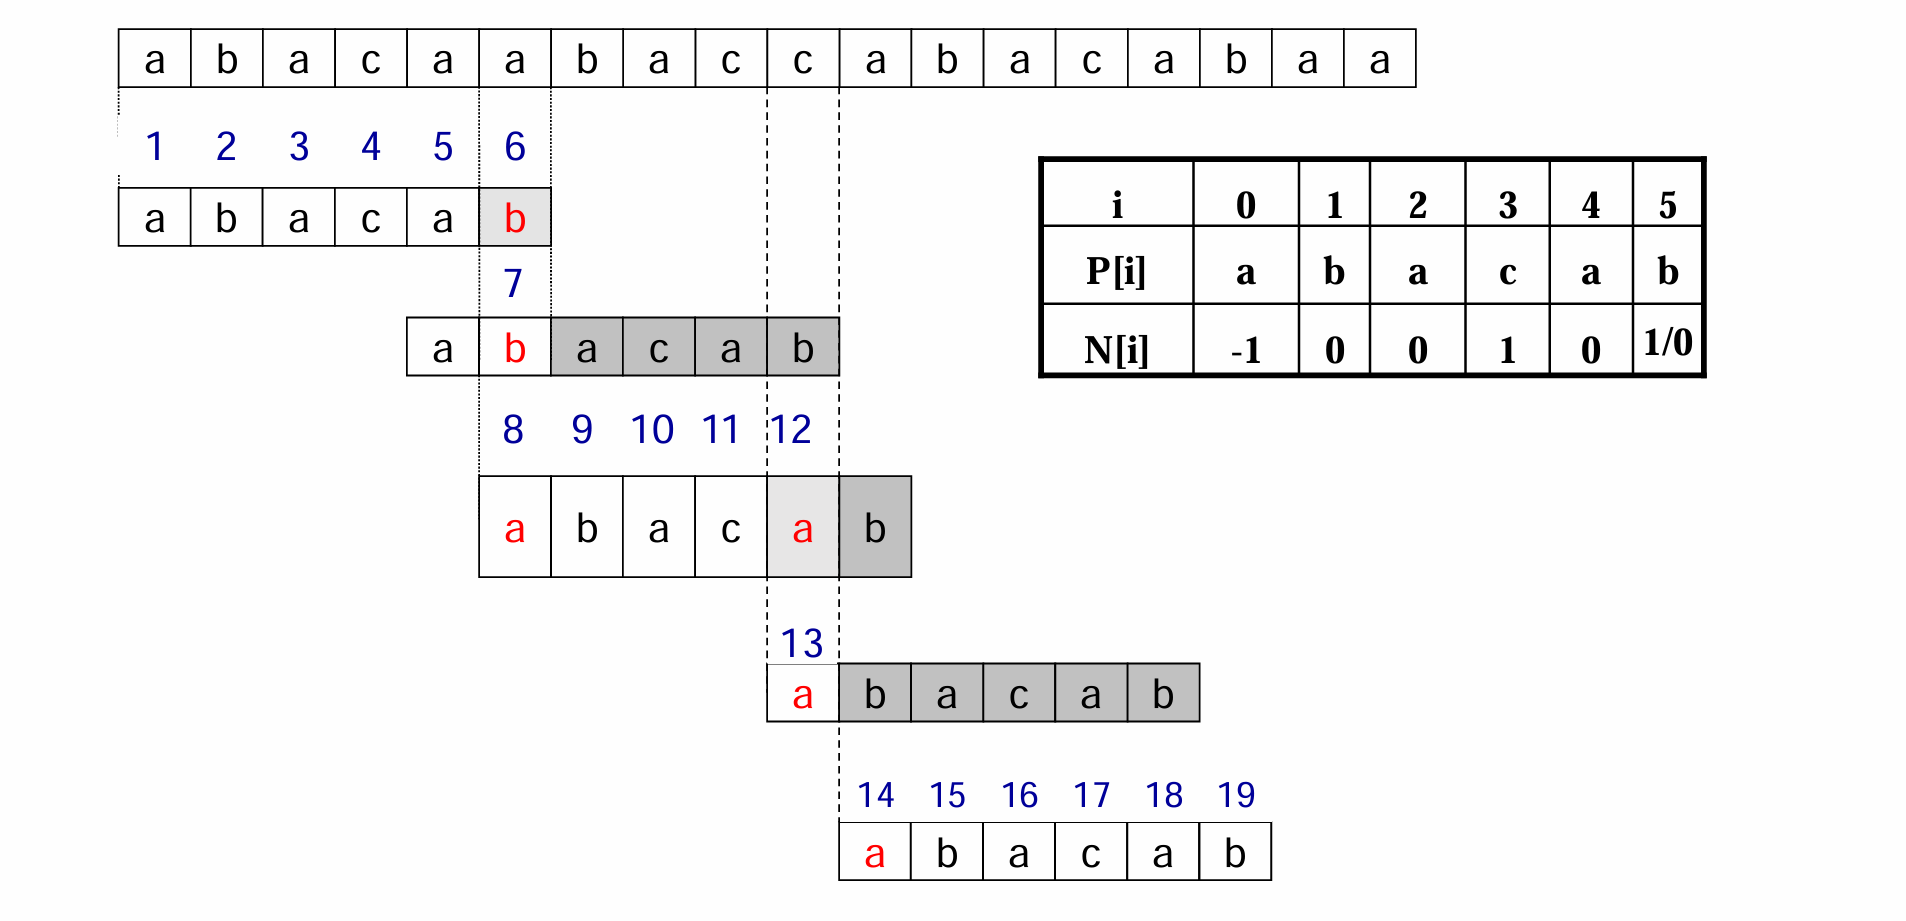
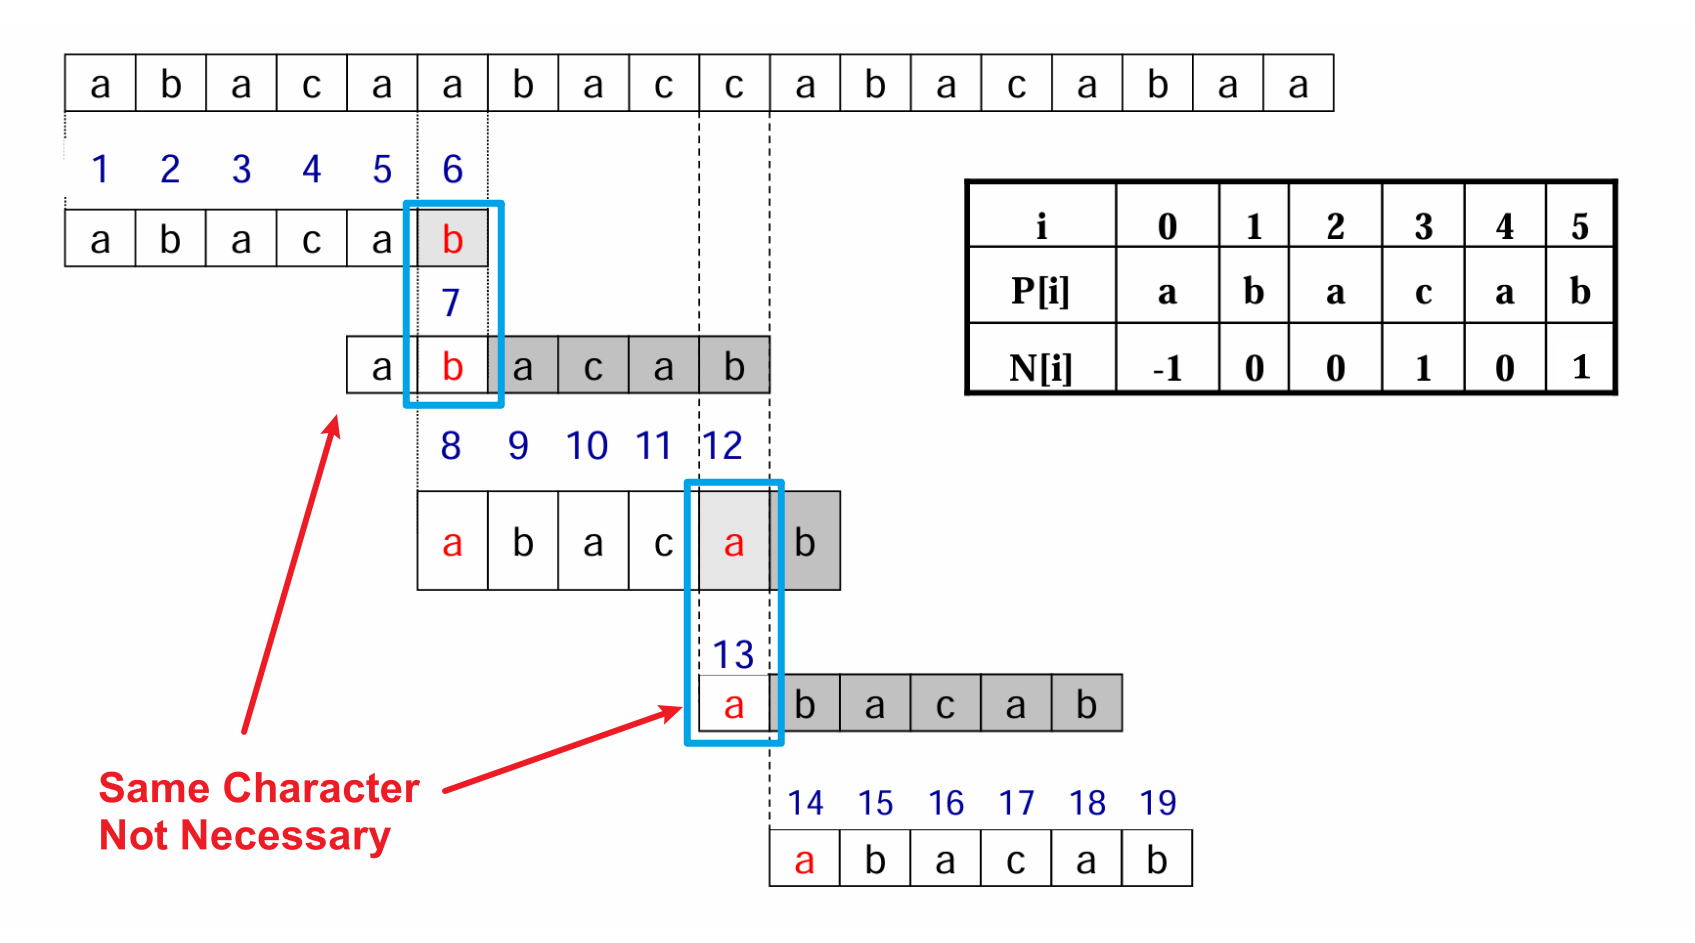
change note

diff --git a/Notes/数算/4 字符串.md b/Notes/数算/4 字符串.md
@@ -298,7 +298,7 @@ T: ...abababx...    T: ...abababx...
 t:      ||||^                 ||^
 P:      abababc     P:        abababc
 index:  0123456               0123456
-p:          ^                   ^
+p:   		^                   ^
    [big k]               [small k]
 ```
 
@@ -332,54 +332,94 @@ $$P_0\cdots P_{l-1}=P_{k-l}\cdots P_{k-1}$$
 
 这就正好与 $n_k=l$ 的含义相同，所以要找的 $l$ 就是 $n_k$ ，接下来只需判断 $P_i=P_l$ ，如果还不相等，那么就这么递归的做下去
 
-上述过程的总结和 KMP 代码如下
+上述过程的总结和代码如下
 1. 若 `p[i] == p[k]` ，则 `n[i+1] = k+1` 
 2. 若 `p[i] != p[k]` 且 `k == 0` ，则 `n[i+1] = 0` 
-3. 若 `p[i] != p[k]` 且 `k > 0` ，则令 `k = n[k]` ，重新进行这些判断，直到能计算出 `n[i+1]` 
+3. 若 `p[i] != p[k]` 且 `k > 0` ，则令 `k = n[k]` ，重新进行这些判断，直到能计算出 `n[i+1]`
+
+```cpp
+int* findNext(string P) {
+    int i, k;
+    int m = P.length();
+    int* next = new int[m];
+    next[0] = -1;
+    i = 0, k = -1;
+
+    while (i < m - 1) { // 注意范围是 i < m - 1
+        while (k >= 0 && P[k] != P[i]) 
+            k = next[k];
+        i++, k++;
+        next[i] = k;
+    }
+    return next;
+}
+```
+
+---
+
+但实际上，这个 next 数组还可以进一步优化，比如在以下过程中，当检测到 T 中的下标 5 处的 a 和 P 中下标 5 处的 b 不匹配时，按照 next 数组，会把 P 中下标 1 的字符移过来对齐
+
+但实际上， P 中下标 5 和下标 1 的字符是一样的，这一点可以预先知道，而下标 5 都不匹配，那下标 1 肯定也不匹配，所以这一步是不必要进行的，可以直接再往下，把下标 0 的 a 移过来对齐检测
+
+![[数算/img/img4/image-2.png]]
+
+根据这个思路，在计算 next 数组时，如果发现某个位置的字符和其特征数位置的字符相等，那就可以直接把其特征数设为其特征数位置的字符的特征数
+
+![[数算/img/img4/image-3.png]]
+
+为了得到优化的 next 数组，可以先计算原本的 next 数组，而后进行比较，比如这个字符串下标 1 处 b 的特征值是 0 ，去找下标 0 处的元素，是 a ，它们不一样，那下标 1 处的特征值就不用改；对于下标 7 处的 c ，其特征值是 2 ，而下标 2 处也是 c ，所以把下标 7 的特征值改为下标 2 的特征值
+
+改进后的 next 数组计算和 KMP 代码如下
 
 ```cpp
 // 构建next数组
-vector<int> buildNext(const string& pattern) {
-    int m = pattern.size();
-    vector<int> next(m, 0);
+int* findNext(string P) {
+    int i, k;
+    int m = P.length();
+    int* next = new int[m];
     next[0] = -1;
-    int k = -1;
-    for (int i = 1; i < m - 1; i++) {
-	    // 退出时要么p[i]==p[k]，要么k=-1
-        while (k >= 0 && pattern[i] != pattern[k]) {
+    i = 0, k = -1;
+
+    while (i < m - 1) {
+        while (k >= 0 && P[k] != P[i]) 
             k = next[k];
-        }
-        k++;
-        next[i] = k;
+        i++, k++;
+        if (P[i] == P[k]) 
+            next[i] = next[k];
+        else
+            next[i] = k;
     }
     return next;
 }
 
 // KMP主算法
-int kmp(const string& text, const string& pattern) {
-    vector<int> next = buildNext(pattern);
-    int j = 0;
-    for (int i = 0; i < text.size(); i++) {
-        // 不匹配时通过next数组跳转
-        while (j > 0 && text[i] != pattern[j]) {
-            j = next[j - 1];
+int KMP(string T, string P, int* N, int start) {
+    int i = 0; // P上指针
+    int j = start; // T上指针
+    int pLen = P.length();
+    int tLen = T.length();
+    if (tLen - start < pLen)
+        return -1;
+
+    while (i < pLen && j < tLen) {
+        if (i == -1 || T[j] == P[i]) {
+            i++, j++;
         }
-        // 当前字符匹配，移动模式串指针
-        if (text[i] == pattern[j]) {
-            j++;
-        }
-        // 完全匹配成功
-        if (j == pattern.size()) {
-            return i - j + 1;  // 返回匹配起始位置
+        else {
+            i = N[i];
         }
     }
-    return -1;  // 未找到
+
+    if (i >= pLen)
+        return (j - pLen);
+    else
+        return -1; // 匹配失败
 }
 ```
 
-计算 `next` 数组的时间复杂度为 $O(m)$ ，KMP 的遍历部分的时间复杂度为 $O(n)$ ，总的时间复杂度为 $O(m+n)$ ，下面贴个运行过程的例子
+计算 next 数组的时间复杂度为 $O(m)$ ，KMP 的遍历部分的时间复杂度为 $O(n)$ ，总的时间复杂度为 $O(m+n)$ ，下面贴个运行过程的例子
 
-![[数算/img/img4/image-2.png]]
+
 
 
 
